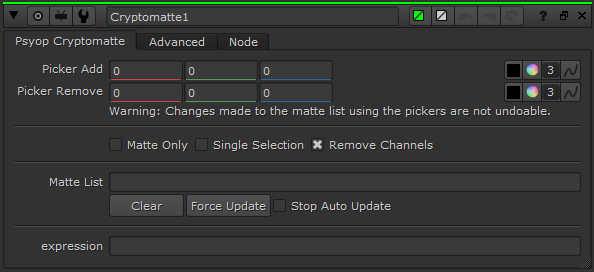
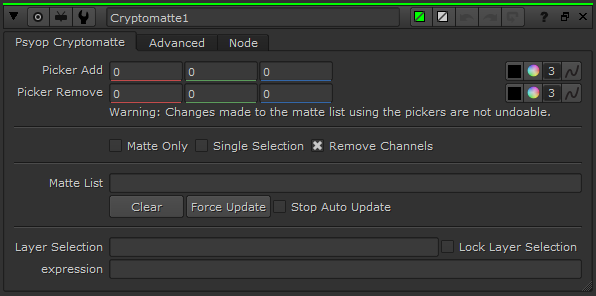
Version 1.0.1, release notes and documentation

diff --git a/nuke/cryptomatte_utilities.py b/nuke/cryptomatte_utilities.py
@@ -5,6 +5,8 @@
 #
 #
 
+__version__ = "1.0.1"
+
 import nuke
 import struct
 

diff --git a/README.md b/README.md
@@ -31,6 +31,20 @@ The contents of this repository are:
 * Psyop
 * Solid Angle
 * All the members of the Cryptomatte Committee
+* Benoit Leveau
+
+## Release Notes
+
+1.0.1: 
+
+* Added layer selection to gizmo and utilities (backwards compatible)
+* Added menu.py
+* Added `__version__` to cryptomatte_utilities
+* Bug fix - invalid manifest broke keying
+
+1.0.0: 
+
+* Initial release of Nuke plugins, specification, and sample images.
 
 ## Nuke Installation
 
@@ -49,10 +63,11 @@ You can test the rest of the functionality by loading one of the sample images s
 ![](/docs/nukeScreenshot.jpg)
 
 To get started: 
+
 1. Load a Cryptomatte exr file, such as the sample images, using a Read node. 
 2. Select it, and tab create a Cryptomatte gizmo. 
-2. View the output of the gizmo. You should see a "keyable surface" (pictured). 
-3. Use the eyedropper with the 'Picker Add' knob to select objects. They should light up in RGB, and output the matte in Alpha. With the eyedropper, make sure you use control-click and not alt-control click. 
+3. View the output of the gizmo. You should see a "keyable surface" (pictured). 
+4. Use the eyedropper with the 'Picker Add' knob to select objects. They should light up in RGB, and output the matte in Alpha. With the eyedropper, make sure you use control-click and not alt-control click. 
 
 ### Cryptomatte Gizmo
 
@@ -68,6 +83,8 @@ Psyop Cryptomatte Tab:
 * Clear: Clears the matte list. 
 * Force Update: The python scripts keep Cryptomatte gizmos updated when inputs or relevant knobs are changed. If there's a case that it does not update, this button will manually update it. 
 * Stop Auto Update: Stops the automatic updating described above.
+* Layer Selection: If there are multiple cryptomattes, this is how you select the layer. This is filled in automatically, but may be changed manually. 
+* Lock Layer Selection: Stops the automatic updating of layer selection, which occurs if the specified selection is not available. 
 * Expression: Internally the gizmo generates an expression to extract the matte. The expression is saved here. 
 
 Advanced Tab: 
